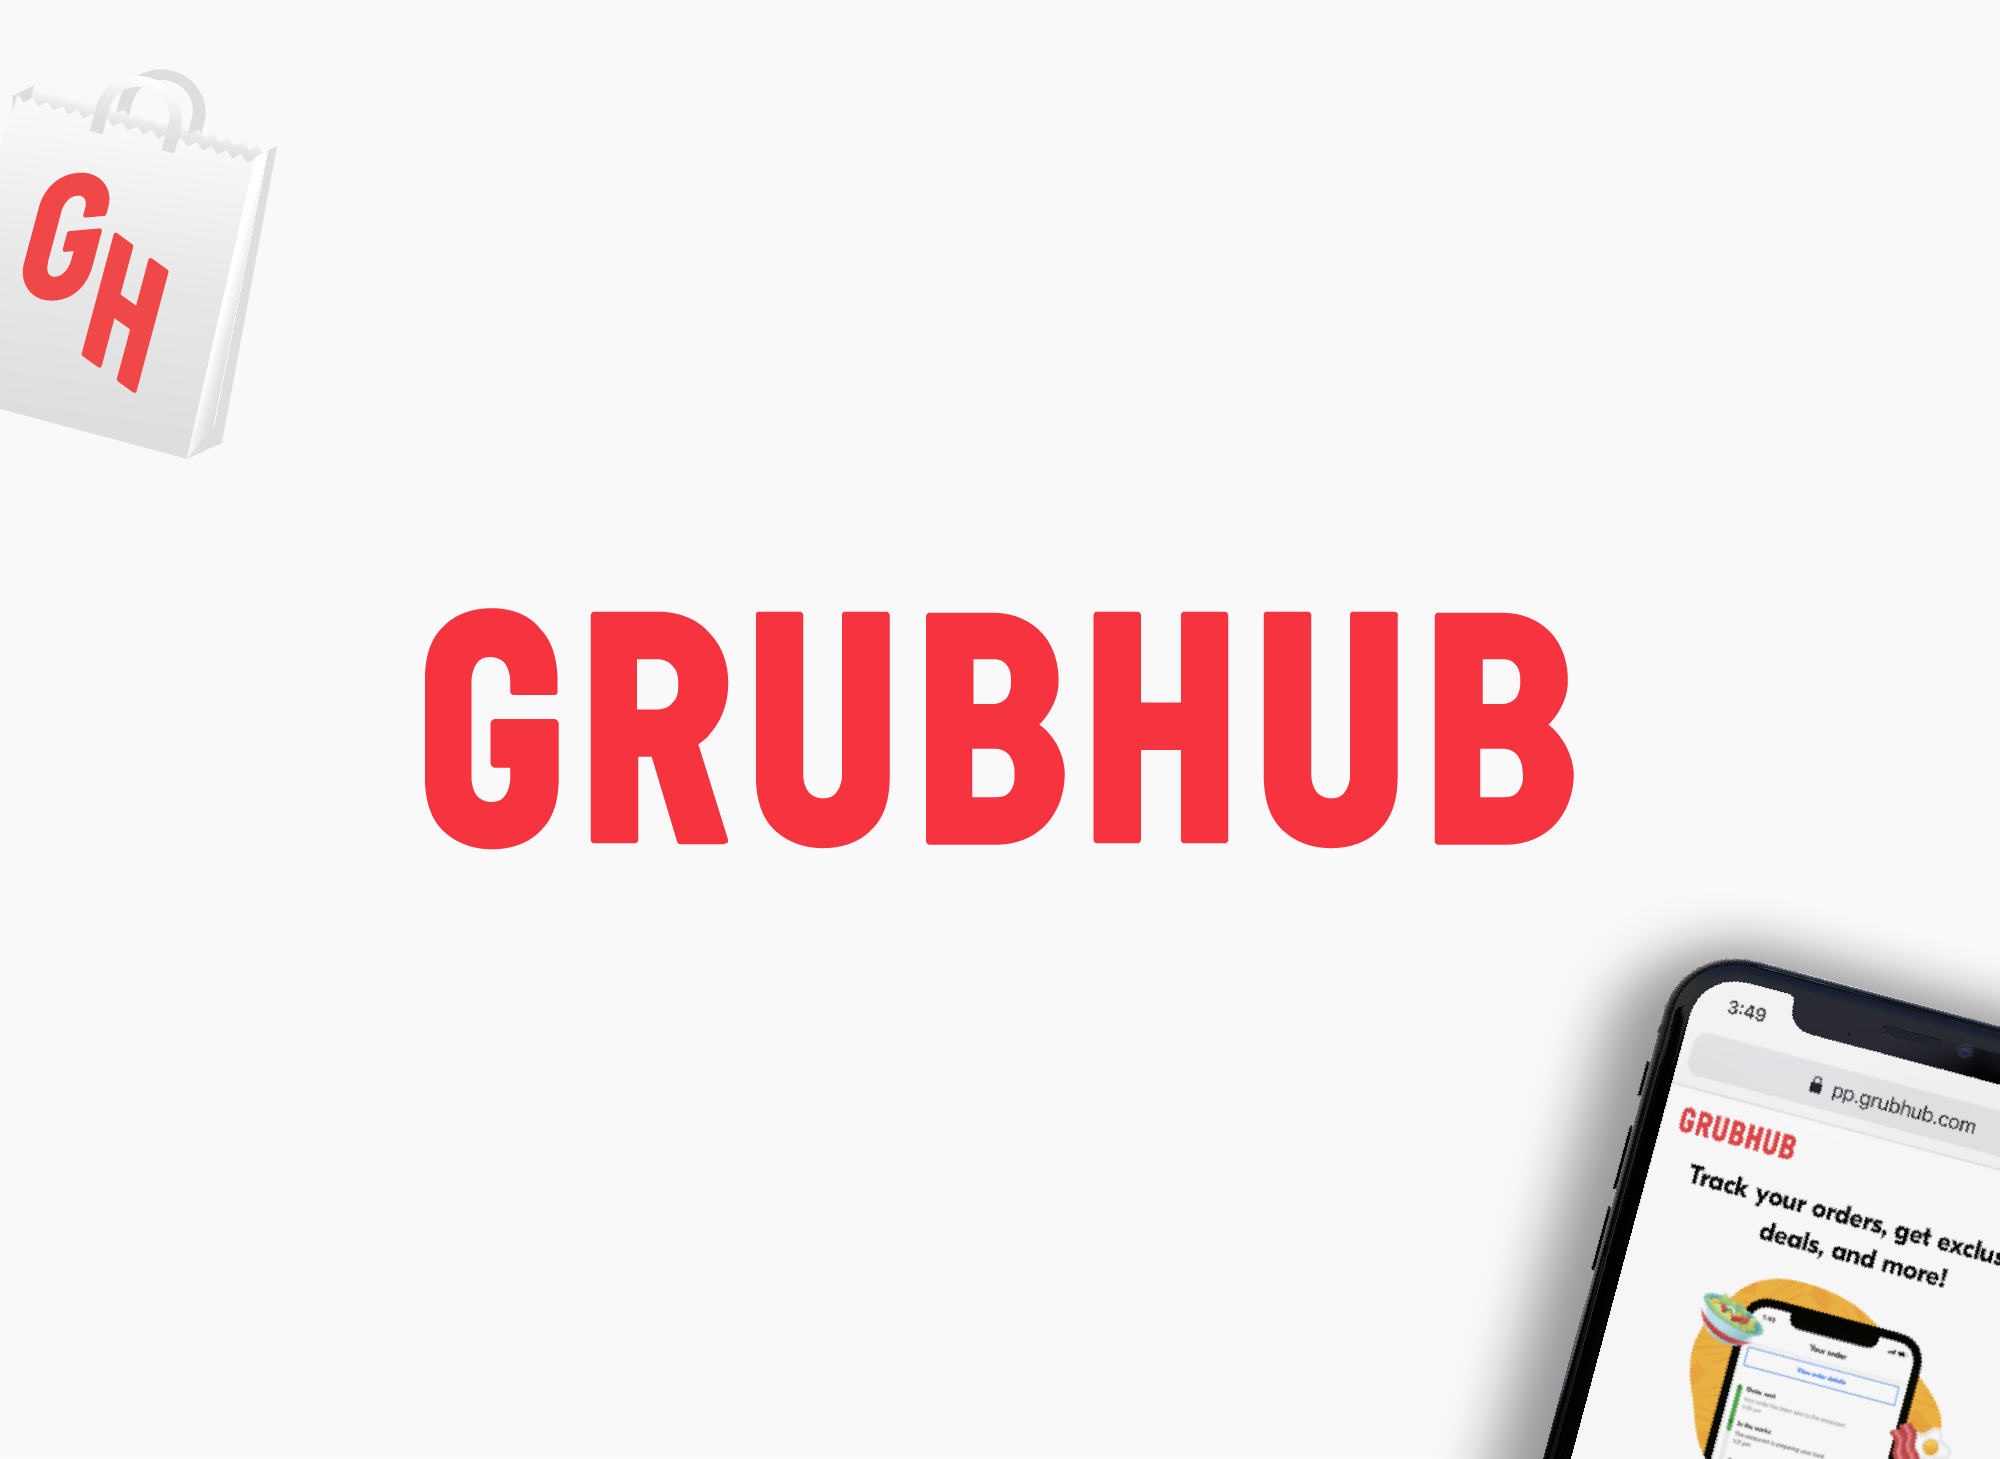
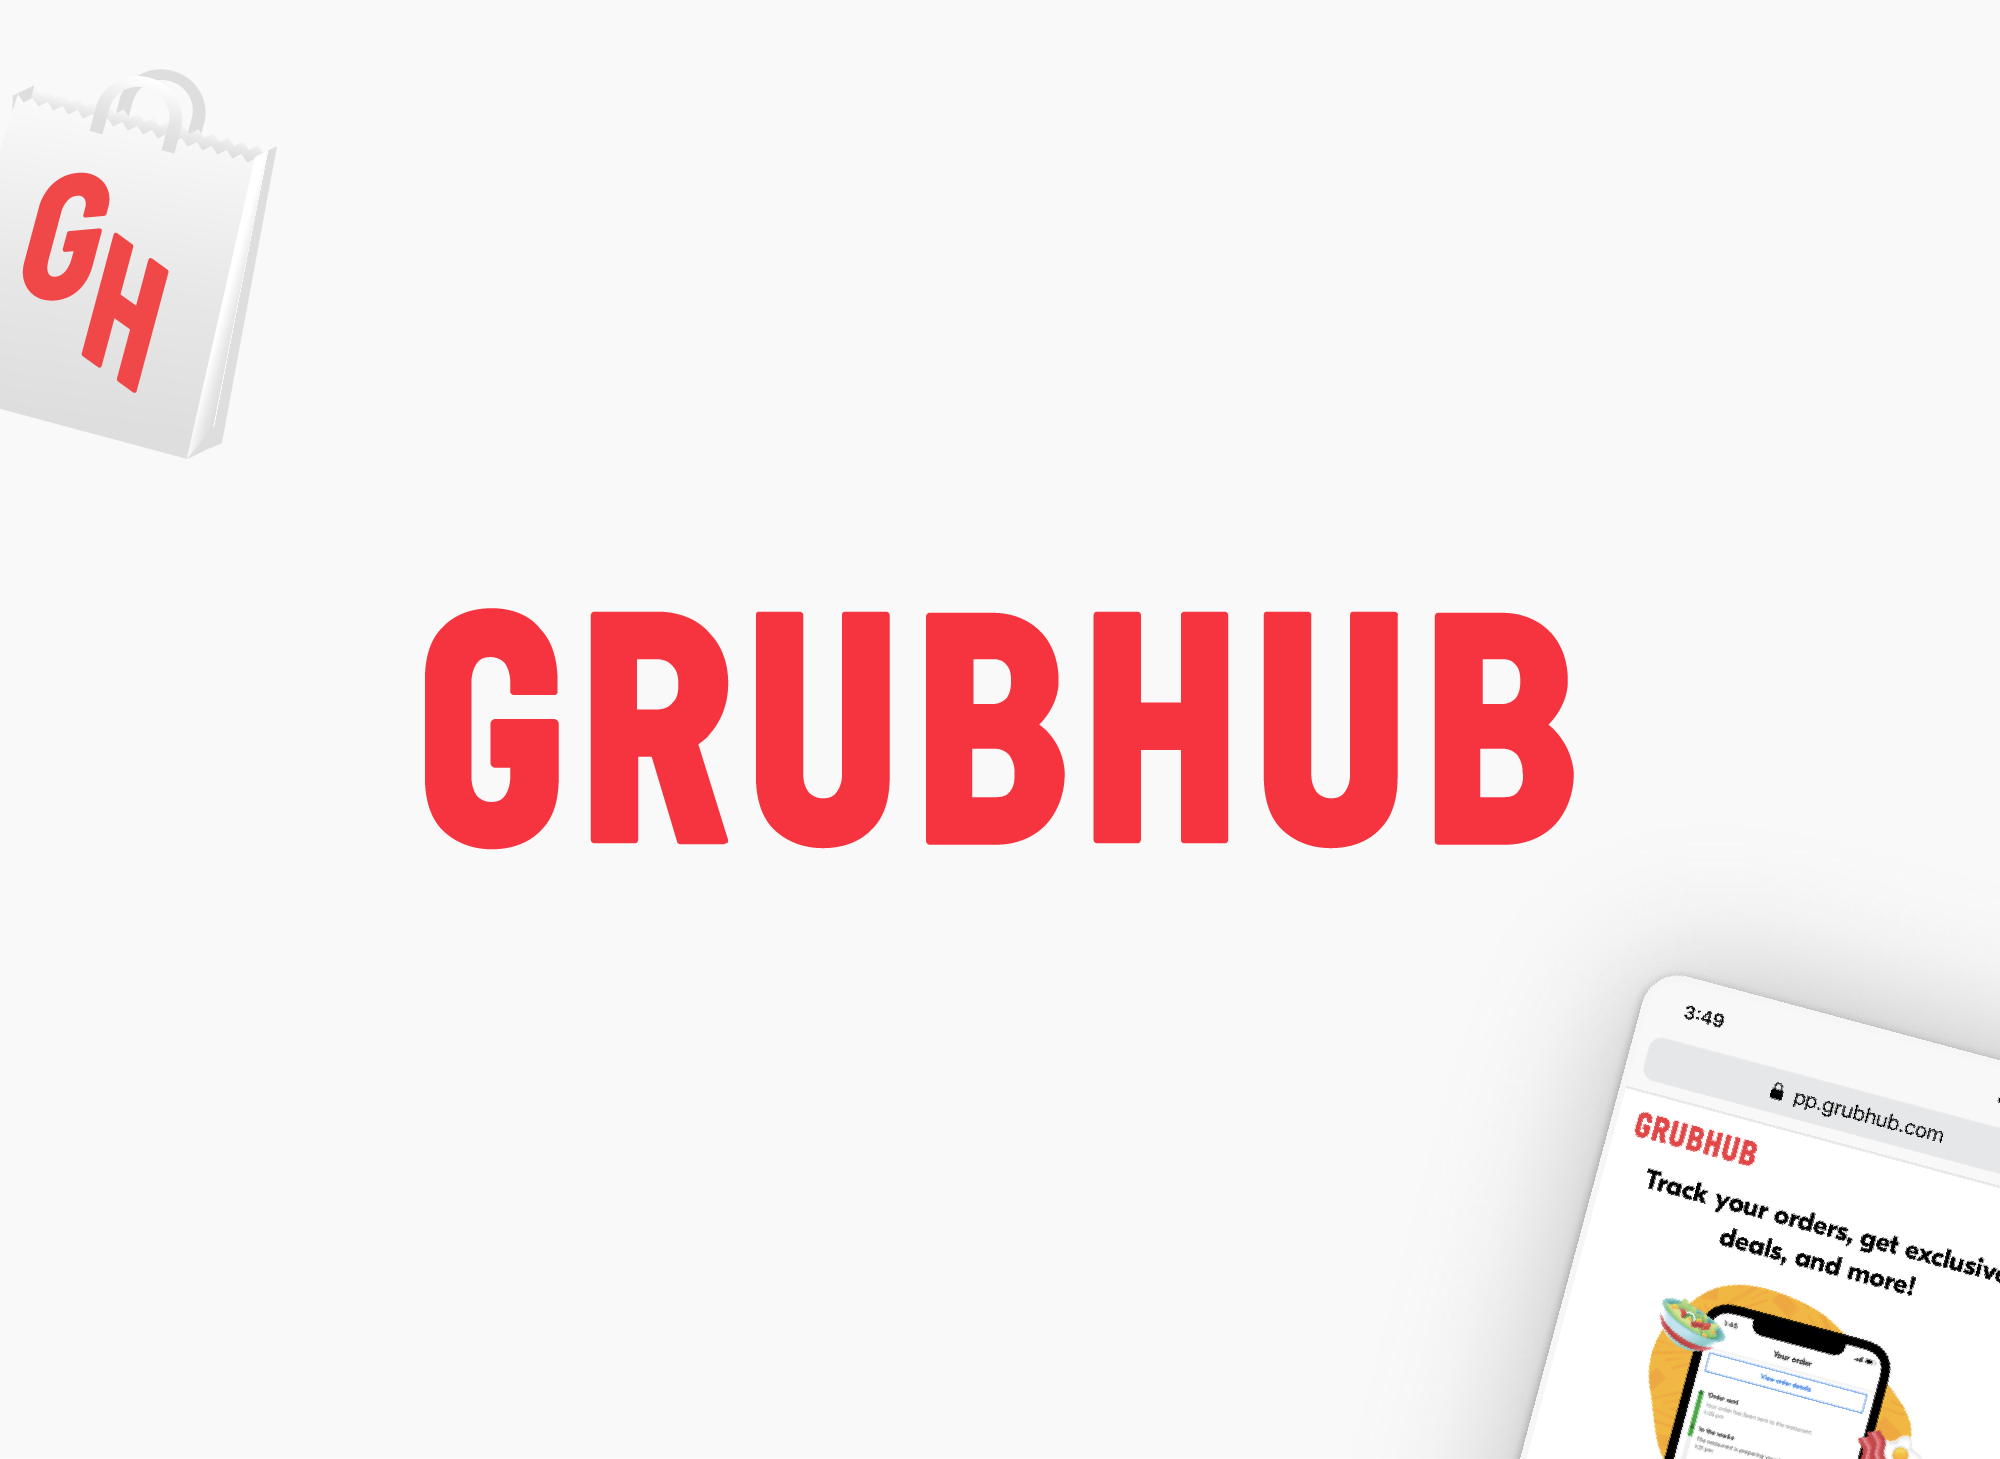
fixed coming soon responsiveness

Changed region(s): [[0.744, 0.6477, 1.0, 1.0]]

diff --git a/src/modules/engineering-projects/grubhub/projects/project-template.tsx b/src/modules/engineering-projects/grubhub/projects/project-template.tsx
@@ -5,6 +5,7 @@ import styled from 'styled-components';
 import { Styles } from 'vars';
 
 export interface IProjectTemplateProps {
+  bgColor?: string;
   imageSrc: string;
   imageAlt: string;
   imagePosition: 'left' | 'right';
@@ -40,7 +41,7 @@ export const TextSectionDesc = styled.p`
 `;
 
 export const BackgroundSection = styled.div`
-  background: ${(props: { bgColor: string }) => props.bgColor};
+  background: ${(props: { bgColor?: string }) => props.bgColor};
   border-radius: ${Styles.Sizes.radius5};
   color: #fff;
   padding: ${Styles.Spaces.section8} ${Styles.Spaces.section8};
@@ -89,6 +90,8 @@ const AutocompleteImageContainer = styled.div`
   display: flex;
   justify-content: center;
   align-items: center;
+  background-color: ${(props: { bgColor?: string }) => props.bgColor};
+  border-radius: ${Styles.Sizes.radius5};
 `;
 
 const AutocompleteImage = styled.img`
@@ -118,12 +121,19 @@ const ProjectTextSection = styled.div`
 `;
 
 export function ProjectTemplate(props: IProjectTemplateProps) {
-  const { imageAlt, imageSrc, imagePosition, objective, roles } = props;
+  const {
+    bgColor,
+    imageAlt,
+    imageSrc,
+    imagePosition,
+    objective,
+    roles,
+  } = props;
 
   return (
     <ProjectTemplateSection>
       {imagePosition === 'left' ? (
-        <AutocompleteImageContainer>
+        <AutocompleteImageContainer bgColor={bgColor}>
           <AutocompleteImage alt={imageAlt} src={imageSrc} />
         </AutocompleteImageContainer>
       ) : null}
@@ -153,7 +163,7 @@ export function ProjectTemplate(props: IProjectTemplateProps) {
         </ul>
       </ProjectSectionTextContainer>
       {imagePosition === 'right' ? (
-        <AutocompleteImageContainer>
+        <AutocompleteImageContainer bgColor={bgColor}>
           <AutocompleteImage alt={imageAlt} src={imageSrc} />
         </AutocompleteImageContainer>
       ) : null}

diff --git a/src/modules/engineering-projects/grubhub/projects/autocomplete.tsx b/src/modules/engineering-projects/grubhub/projects/autocomplete.tsx
@@ -31,8 +31,9 @@ export interface IAutocompleteProps {}
 const AutocompleteComponent = styled.div``;
 
 const autocompleteTemplate: IProjectTemplateProps = {
+  bgColor: '#C7EDE6',
   imageAlt: 'Autocomplete Illustration',
-  imageSrc: require('assets/grubhub/projects/autocomplete/autocomplete-icon.png'),
+  imageSrc: require('assets/grubhub/projects/autocomplete/autocomplete-cover.png'),
   imagePosition: 'left',
   objective: `To create an intuitive and efficient experience for users landing on
   the logged out homepage looking to quickly find food near them and
@@ -56,6 +57,7 @@ export function Autocomplete({  }: IAutocompleteProps) {
         <Container id="autocomplete-project-header" size="lg">
           <SectionHeaderMajor>Search Autocomplete</SectionHeaderMajor>
           <ProjectTemplate
+            bgColor={autocompleteTemplate.bgColor}
             imageAlt={autocompleteTemplate.imageAlt}
             imageSrc={autocompleteTemplate.imageSrc}
             imagePosition={autocompleteTemplate.imagePosition}

diff --git a/src/modules/engineering-projects/grubhub/projects/get-the-app.tsx b/src/modules/engineering-projects/grubhub/projects/get-the-app.tsx
@@ -24,8 +24,9 @@ export interface IGetTheAppProps {}
 const GetTheAppComponent = styled.div``;
 
 const getTheAppTemplate: IProjectTemplateProps = {
+  bgColor: '#c2e7f2',
   imageAlt: 'Get The App Illustration',
-  imageSrc: require('assets/grubhub/projects/autocomplete/autocomplete-icon.png'),
+  imageSrc: require('assets/grubhub/projects/mweb-redesign/get-the-app-cover.png'),
   imagePosition: 'left',
   objective: `To encourage users landing on the logged out homepage to download the mobile app without
   blocking their natural experience with a fullscreen pullover.`,
@@ -48,6 +49,7 @@ export function GetTheApp({  }: IGetTheAppProps) {
         <SectionHeaderMajor>Get The App</SectionHeaderMajor>
         <Container id="get-the-app-project-header" size="lg">
           <ProjectTemplate
+            bgColor={getTheAppTemplate.bgColor}
             imageAlt={getTheAppTemplate.imageAlt}
             imageSrc={getTheAppTemplate.imageSrc}
             imagePosition={getTheAppTemplate.imagePosition}

diff --git a/src/modules/engineering/components/project-card/project-card.tsx b/src/modules/engineering/components/project-card/project-card.tsx
@@ -27,8 +27,7 @@ const ProjectCardFlexItem = styled.div`
 `;
 
 const ProjectImagecontainer = styled(ProjectCardFlexItem)`
-  height: 350px;
-  width: 480px;
+  max-width: 480px;
   align-items: center;
   border-radius: ${Styles.Sizes.radius5};
   background: ${Styles.Colors.bgGray};

diff --git a/src/modules/homepage/components/homepage.tsx b/src/modules/homepage/components/homepage.tsx
@@ -15,7 +15,10 @@ const ComingSoonContainer = styled.div`
 
 const ComingSoonIllo = styled.img`
   width: 640px;
-  height: 400px;
+
+  ${Styles.MediaQuery.sm} {
+    width: 100%;
+  }
 `;
 
 const ComingSoonHeader = styled.h1`
